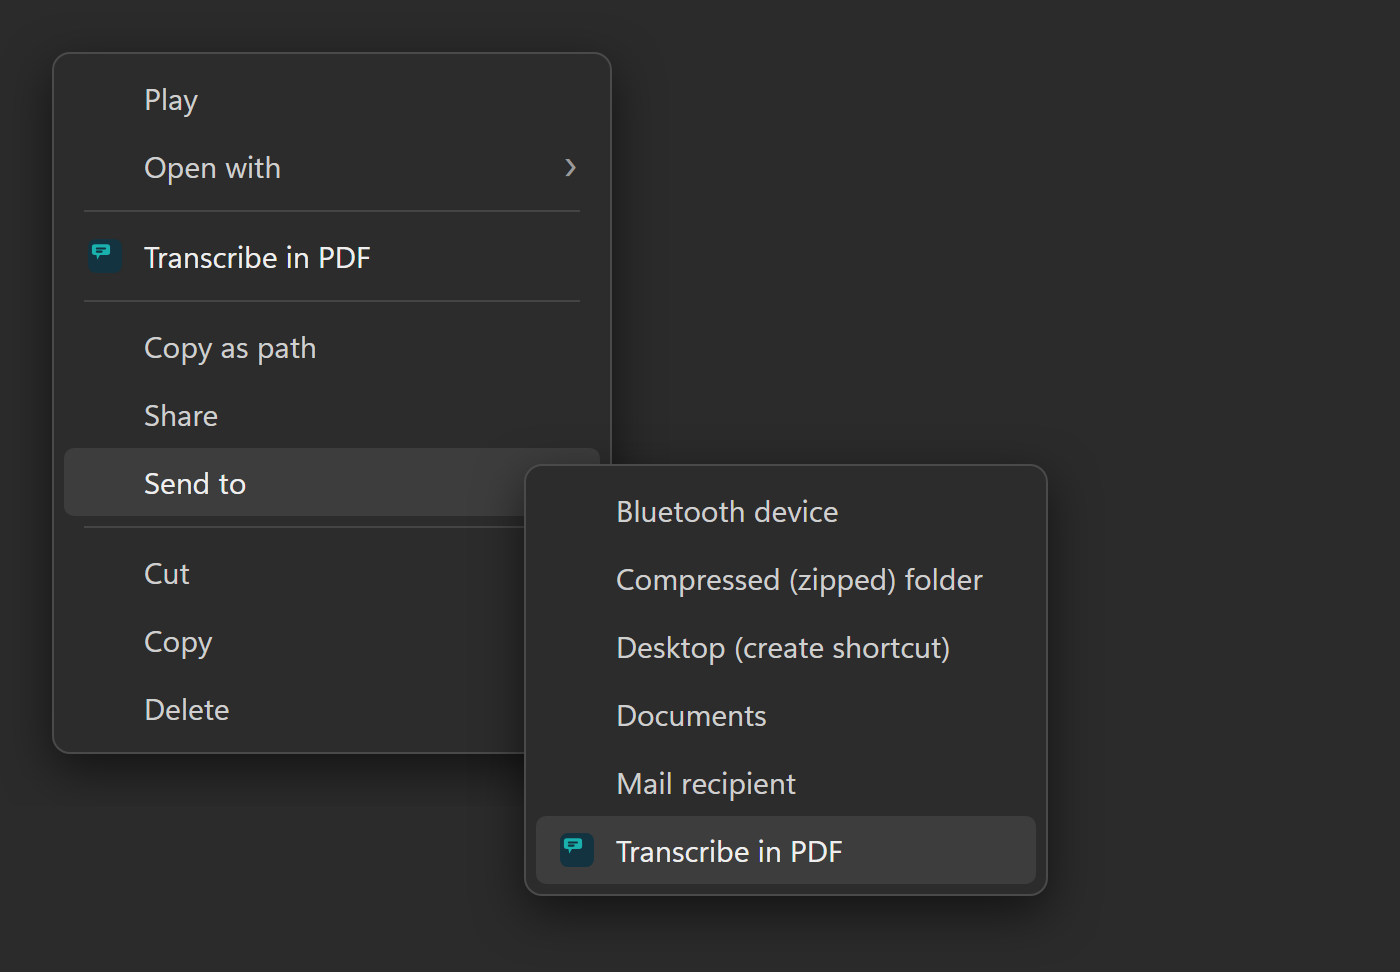
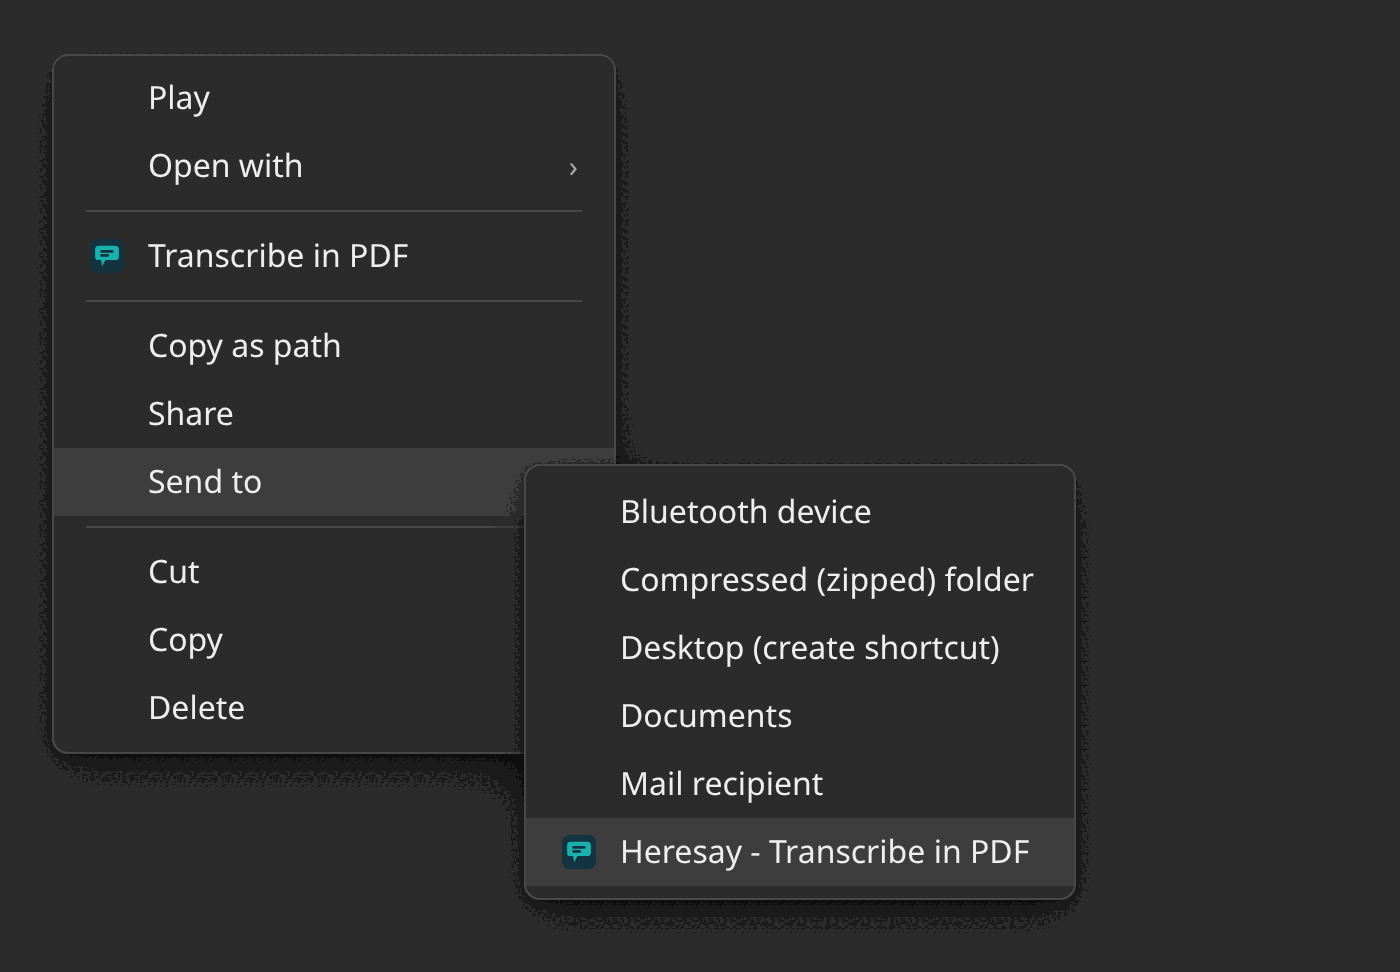
Regenerate the context-menu mockup for the renamed Send To entry
The image is a mockup rather than a screenshot, so it can be re-rendered
instead of re-photographed on Windows. Rebuilt from measurements of the
existing PNG - 34px rows, 47px text inset, 17px icons, separators after
Open with / Transcribe in PDF / Send to, #2C2C2C panels on #2B2B2B with
#3D3D3D selection - so only the label differs: Send To now reads
"Heresay - Transcribe in PDF", and that panel is a little wider to fit
it, as Windows sizes submenus to content.

The mark is the $appIcon geometry from app/Progress.ps1 transcribed to
SVG, so it stays tied to the one definition of the logo.

The HTML source is kept in docs/mockups/ with the command that renders
it, so the next entry rename is a re-render rather than a redraw. Text
sets in Noto Sans instead of Segoe UI, which is not available here, so
it runs slightly wider.

No packaged file changes: docs/ is never staged into the distribution,
so the published Heresay-Setup.zip is unaffected.

diff --git a/docs/mockups/right-click-menu.html b/docs/mockups/right-click-menu.html
@@ -1,0 +1,38 @@
+<!doctype html><html><head><meta charset="utf-8"><style>
+  html,body{margin:0;padding:0;background:#2B2B2B;}
+  body{font-family:'Noto Sans','Segoe UI',sans-serif;-webkit-font-smoothing:antialiased;}
+  .panel{position:absolute;background:#2C2C2C;border:1px solid #4A4A4A;border-radius:8px;
+         box-shadow:0 10px 28px rgba(0,0,0,.50),0 2px 6px rgba(0,0,0,.35);
+         padding:4px 0 5px;overflow:hidden;}
+  .row{height:34px;display:flex;align-items:center;padding:0 0 0 18px;color:#EEEEEE;
+       font-size:16px;line-height:1;white-space:nowrap;}
+  .row.hi{background:#3D3D3D;}
+  .ico{width:17px;height:17px;margin-right:12px;flex:0 0 17px;}
+  .chev{margin-left:auto;margin-right:18px;color:#A8A8A8;font-size:15px;line-height:1;}
+  .sep{height:1px;background:#454545;margin:5px 16px;}
+</style></head><body>
+
+<div class="panel" id="main" style="left:26px;top:27px;width:280px;">
+  <div class="row"><span class="ico"></span>Play</div>
+  <div class="row"><span class="ico"></span>Open with<span class="chev">&#8250;</span></div>
+  <div class="sep"></div>
+  <div class="row"><span class="ico"><svg viewBox="0 0 32 32" width="17" height="17" xmlns="http://www.w3.org/2000/svg"><rect x="0" y="0" width="32" height="32" rx="7" ry="7" fill="#12333F"/><path d="M 8.2,6.4 H 23.8 A 3.4,3.4 0 0 1 27.2,9.8 V 16.4 A 3.4,3.4 0 0 1 23.8,19.8 H 14.6 L 11.4,25.6 L 10.4,19.8 H 6.4 A 3.4,3.4 0 0 1 4.8,16.4 V 9.8 A 3.4,3.4 0 0 1 8.2,6.4 Z" fill="#19B0AE"/><rect x="9.6" y="10.4" width="12.6" height="2.6" rx="1.3" fill="#12333F"/><rect x="9.6" y="14.2" width="8.4" height="2.6" rx="1.3" fill="#12333F"/></svg></span>Transcribe in PDF</div>
+  <div class="sep"></div>
+  <div class="row"><span class="ico"></span>Copy as path</div>
+  <div class="row"><span class="ico"></span>Share</div>
+  <div class="row hi"><span class="ico"></span>Send to<span class="chev">&#8250;</span></div>
+  <div class="sep"></div>
+  <div class="row"><span class="ico"></span>Cut</div>
+  <div class="row"><span class="ico"></span>Copy</div>
+  <div class="row"><span class="ico"></span>Delete</div>
+</div>
+
+<div class="panel" id="sub" style="left:262px;top:232px;width:274px;padding:6px 0;">
+  <div class="row"><span class="ico"></span>Bluetooth device</div>
+  <div class="row"><span class="ico"></span>Compressed (zipped) folder</div>
+  <div class="row"><span class="ico"></span>Desktop (create shortcut)</div>
+  <div class="row"><span class="ico"></span>Documents</div>
+  <div class="row"><span class="ico"></span>Mail recipient</div>
+  <div class="row hi"><span class="ico"><svg viewBox="0 0 32 32" width="17" height="17" xmlns="http://www.w3.org/2000/svg"><rect x="0" y="0" width="32" height="32" rx="7" ry="7" fill="#12333F"/><path d="M 8.2,6.4 H 23.8 A 3.4,3.4 0 0 1 27.2,9.8 V 16.4 A 3.4,3.4 0 0 1 23.8,19.8 H 14.6 L 11.4,25.6 L 10.4,19.8 H 6.4 A 3.4,3.4 0 0 1 4.8,16.4 V 9.8 A 3.4,3.4 0 0 1 8.2,6.4 Z" fill="#19B0AE"/><rect x="9.6" y="10.4" width="12.6" height="2.6" rx="1.3" fill="#12333F"/><rect x="9.6" y="14.2" width="8.4" height="2.6" rx="1.3" fill="#12333F"/></svg></span>Heresay - Transcribe in PDF</div>
+</div>
+</body></html>

diff --git a/docs/mockups/README.md b/docs/mockups/README.md
@@ -1,0 +1,19 @@
+# Mockups
+
+`right-click-menu.html` is the source for `docs/images/right-click-menu.png`. That image
+is a mockup, not a screenshot, so it is regenerated rather than re-photographed whenever
+the menu entries change.
+
+The app mark in it is a copy of the `$appIcon` geometry in `app/Progress.ps1`, which is
+the single definition of the logo — see `installer/assets/New-AppMark.ps1`. If the mark
+changes there, update the inline `<svg>` here to match.
+
+Regenerate (any Chromium-based browser; the flags are the same for Edge):
+
+```
+chrome --headless --disable-gpu --hide-scrollbars \
+       --force-device-scale-factor=2 --window-size=700,486 \
+       --screenshot=right-click-menu.png right-click-menu.html
+```
+
+That yields the 1400x972 image the README embeds at width 640.
